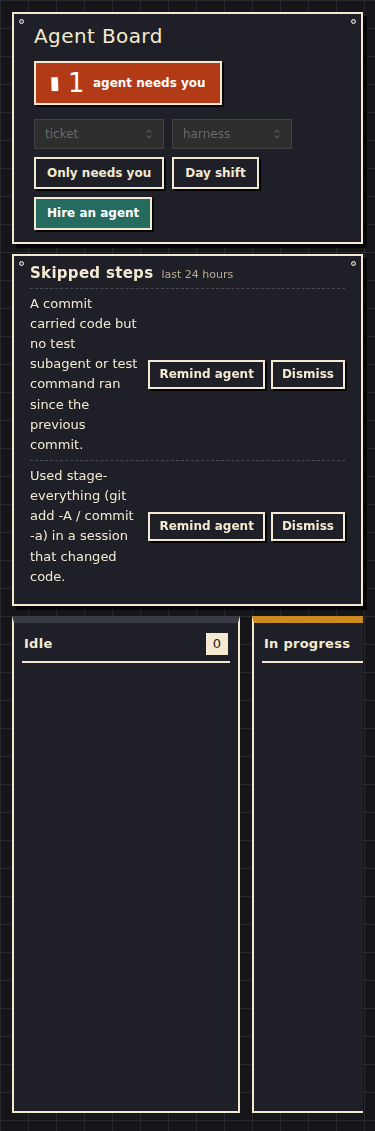
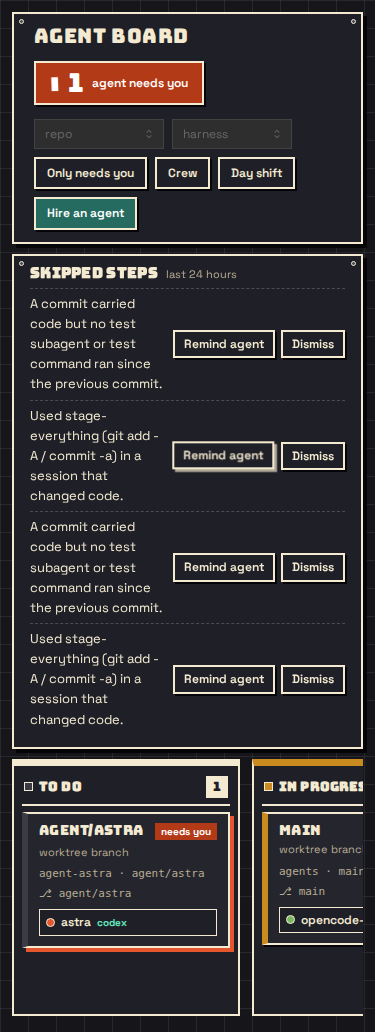
Remove standalone New worktree (hire with worktree covers it); fix board scrolling (page fixed, columns scroll independently); stage-colored ticket cards + hover pop

Changed region(s): [[0.0293, 0.0, 0.9973, 0.9302], [0.3813, 0.4031, 0.9387, 0.4961], [0.9093, 0.0, 0.968, 0.031]]

diff --git a/web/src/index.css b/web/src/index.css
@@ -248,6 +248,7 @@ body {
   flex-direction: column;
   gap: 10px;
   height: 100%;
+  min-height: 0;
   min-width: 0;
 }
 
@@ -395,15 +396,6 @@ body {
   color: #fff;
 }
 
-.board-columns {
-  display: flex;
-  gap: 12px;
-  overflow-x: auto;
-  align-items: flex-start;
-  flex: 1;
-  padding-bottom: 6px;
-}
-
 .board-col {
   min-width: 228px;
   flex: 1 0 228px;
@@ -412,6 +404,34 @@ body {
   background: var(--ab-panel);
   padding: 8px;
   border-radius: var(--ab-radius);
+  display: flex;
+  flex-direction: column;
+  min-height: 0;
+  max-height: 100%;
+}
+
+/* Only the ticket list inside a column scrolls; the page itself does not. */
+.board-col-scroll {
+  overflow-y: auto;
+  overscroll-behavior: contain;
+  min-height: 0;
+  flex: 1;
+  padding-top: 6px;
+  margin-right: -4px;
+  padding-right: 4px;
+}
+
+.board-col-scroll::-webkit-scrollbar {
+  width: 10px;
+}
+
+.board-col-scroll::-webkit-scrollbar-thumb {
+  background: var(--ab-rivet);
+  border: 2px solid var(--ab-panel);
+}
+
+.board-col-scroll::-webkit-scrollbar-track {
+  background: transparent;
 }
 
 .board-col[data-col="idle"] { border-top-color: var(--ab-col-idle); }
@@ -436,7 +456,32 @@ body {
   margin: 0;
   font-size: 13px;
   color: var(--ab-ink);
+  letter-spacing: 0.01em;
 }
+
+/* A little stage sign on the column header, coloured by stage. */
+.board-col[data-col="to-do"] .board-col-title::before,
+.board-col[data-col="in-progress"] .board-col-title::before,
+.board-col[data-col="testing"] .board-col-title::before,
+.board-col[data-col="review"] .board-col-title::before,
+.board-col[data-col="ready-to-push"] .board-col-title::before,
+.board-col[data-col="shipped"] .board-col-title::before,
+.board-col[data-col="parked"] .board-col-title::before {
+  content: "";
+  display: inline-block;
+  width: 9px;
+  height: 9px;
+  margin-right: 6px;
+  border: 1.5px solid var(--ab-border);
+  vertical-align: baseline;
+}
+.board-col[data-col="to-do"] .board-col-title::before { background: var(--ab-col-idle); }
+.board-col[data-col="in-progress"] .board-col-title::before { background: var(--ab-col-go); }
+.board-col[data-col="testing"] .board-col-title::before { background: var(--ab-col-test); }
+.board-col[data-col="review"] .board-col-title::before { background: var(--ab-col-review); }
+.board-col[data-col="ready-to-push"] .board-col-title::before { background: var(--ab-col-ready); }
+.board-col[data-col="shipped"] .board-col-title::before { background: var(--ab-col-ship); }
+.board-col[data-col="parked"] .board-col-title::before { background: var(--ab-col-park); }
 
 .board-col-count {
   font-family: "Bungee", sans-serif;
@@ -676,19 +721,44 @@ body {
   gap: 12px;
   flex: 1;
   min-height: 0;
+  overflow: hidden;
 }
 
 .board-body .board-columns {
+  display: flex;
+  gap: 12px;
   flex: 1;
   min-width: 0;
+  min-height: 0;
+  overflow-x: auto;
+  overflow-y: hidden;
+  align-items: stretch;
+  padding-bottom: 4px;
 }
 
 .ticket-card {
   padding: 9px 11px 10px;
+  border-left-width: 6px;
+}
+
+.ticket-card[data-stage="to-do"] { border-left-color: var(--ab-col-idle); }
+.ticket-card[data-stage="in-progress"] { border-left-color: var(--ab-col-go); }
+.ticket-card[data-stage="testing"] { border-left-color: var(--ab-col-test); }
+.ticket-card[data-stage="review"] { border-left-color: var(--ab-col-review); }
+.ticket-card[data-stage="ready-to-push"] { border-left-color: var(--ab-col-ready); }
+.ticket-card[data-stage="shipped"] { border-left-color: var(--ab-col-ship); }
+
+.ticket-card:hover {
+  transform: translate(-2px, -2px);
+  box-shadow: 5px 5px 0 var(--ab-border);
 }
 
 .ticket-card[data-needs="true"] {
   box-shadow: 4px 4px 0 var(--signal-red);
+}
+
+.ticket-card[data-needs="true"]:hover {
+  box-shadow: 6px 6px 0 var(--signal-red);
 }
 
 .ticket-head {
@@ -842,6 +912,13 @@ body {
   .lamp.is-working {
     animation: none;
   }
+  .ticket-card:hover {
+    transform: none;
+    box-shadow: var(--ab-shadow-sm);
+  }
+  .ticket-card[data-needs="true"]:hover {
+    box-shadow: 4px 4px 0 var(--signal-red);
+  }
 }
 
 /* ------------------------------------------------------------- crew */
@@ -849,9 +926,10 @@ body {
 .crew {
   flex: 0 0 260px;
   min-width: 0;
+  min-height: 0;
   padding: 10px 12px 14px;
   overflow-y: auto;
-  max-height: calc(100vh - 150px);
+  overscroll-behavior: contain;
 }
 
 .crew-head {

diff --git a/web/src/components/Board.tsx b/web/src/components/Board.tsx
@@ -12,84 +12,6 @@ import { TicketCard } from "./TicketCard";
 import { Crew } from "./Crew";
 import { useFlip } from "../flip";
 
-function WorktreeModal({
-  opened,
-  onClose,
-  repos,
-}: {
-  opened: boolean;
-  onClose: () => void;
-  repos: string[];
-}) {
-  const [repo, setRepo] = useState(repos[0] || "");
-  const [branch, setBranch] = useState("");
-  const [base, setBase] = useState("");
-  const [error, setError] = useState("");
-  const [busy, setBusy] = useState(false);
-
-  useEffect(() => {
-    if (opened && !repo && repos[0]) setRepo(repos[0]);
-    // eslint-disable-next-line react-hooks/exhaustive-deps
-  }, [opened, repos]);
-
-  async function submit() {
-    setBusy(true);
-    setError("");
-    try {
-      await api.createWorktree({ repo, branch, base });
-      onClose();
-    } catch (e) {
-      setError(e instanceof Error ? e.message : "failed");
-    } finally {
-      setBusy(false);
-    }
-  }
-
-  return (
-    <Modal
-      opened={opened}
-      onClose={onClose}
-      title={<span className="font-display hire-title">New worktree</span>}
-      centered
-    >
-      <Stack gap="sm">
-        <Select
-          label="Repository"
-          data={repos.map((r) => ({ value: r, label: r.split("/").pop() || r }))}
-          value={repo}
-          onChange={(v) => setRepo(v || "")}
-          allowDeselect={false}
-          aria-label="worktree repo"
-        />
-        <TextInput
-          label="Branch"
-          description="A new branch name. Use the ticket id, e.g. ABC-123-login."
-          value={branch}
-          onChange={(e) => setBranch(e.currentTarget.value)}
-          aria-label="worktree branch"
-        />
-        <TextInput
-          label="Base (optional)"
-          placeholder="main"
-          value={base}
-          onChange={(e) => setBase(e.currentTarget.value)}
-          aria-label="worktree base"
-        />
-        {error && <p className="hire-error">{error}</p>}
-        <button
-          type="button"
-          className="ab-btn hire-submit"
-          onClick={submit}
-          disabled={busy || !repo || !branch}
-          data-testid="worktree-create"
-        >
-          {busy ? "Creating…" : "Create worktree"}
-        </button>
-      </Stack>
-    </Modal>
-  );
-}
-
 function FolderPicker({
   value,
   onChange,
@@ -453,7 +375,6 @@ export function BoardView({
     typeof window !== "undefined" ? window.innerWidth >= 900 : true,
   );
   const [hireOpen, setHireOpen] = useState(false);
-  const [wtOpen, setWtOpen] = useState(false);
   const [hirePreset, setHirePreset] =
     useState<{ folder: string; name: string } | null>(null);
   const ref = useFlip(
@@ -550,14 +471,6 @@ export function BoardView({
           </button>
           <button
             type="button"
-            className="ab-btn board-ctl"
-            data-testid="worktree-open"
-            onClick={() => setWtOpen(true)}
-          >
-            New worktree
-          </button>
-          <button
-            type="button"
             className="ab-btn board-ctl is-primary"
             data-testid="hire-open"
             onClick={() => {
@@ -628,8 +541,8 @@ export function BoardView({
                     {count}
                   </span>
                 </header>
-                <ScrollArea h="calc(100vh - 280px)" type="hover">
-                  <Stack gap="xs" pt={6}>
+                <div className="board-col-scroll">
+                  <Stack gap="xs">
                     {col === "Parked" ? (
                       <WorktreeCards
                         worktrees={board.worktrees}
@@ -658,7 +571,7 @@ export function BoardView({
                       ))
                     )}
                   </Stack>
-                </ScrollArea>
+                </div>
               </section>
             );
           })}
@@ -698,11 +611,6 @@ export function BoardView({
         onClose={() => setHireOpen(false)}
         onDone={() => undefined}
         preset={hirePreset}
-      />
-      <WorktreeModal
-        opened={wtOpen}
-        onClose={() => setWtOpen(false)}
-        repos={repos}
       />
     </div>
   );

diff --git a/web/src/api.ts b/web/src/api.ts
@@ -114,11 +114,6 @@ export const api = {
       method: "POST",
       body: JSON.stringify({ path }),
     }),
-  createWorktree: (body: { repo: string; branch: string; base?: string; label?: string }) =>
-    req<{ ok: boolean }>("/api/worktree_create", {
-      method: "POST",
-      body: JSON.stringify(body),
-    }),
   openWorktree: (path: string) =>
     req<{ ok: boolean }>("/api/worktree_open", {
       method: "POST",

diff --git a/web/src/components/TicketCard.tsx b/web/src/components/TicketCard.tsx
@@ -70,6 +70,7 @@ export function TicketCard({
       className="ab-card ticket-card"
       data-testid="ticket"
       data-needs={needs}
+      data-stage={ticket.stage.toLowerCase().replace(/ /g, "-")}
       aria-label={`ticket ${ticket.name}`}
     >
       <header className="ticket-head">
